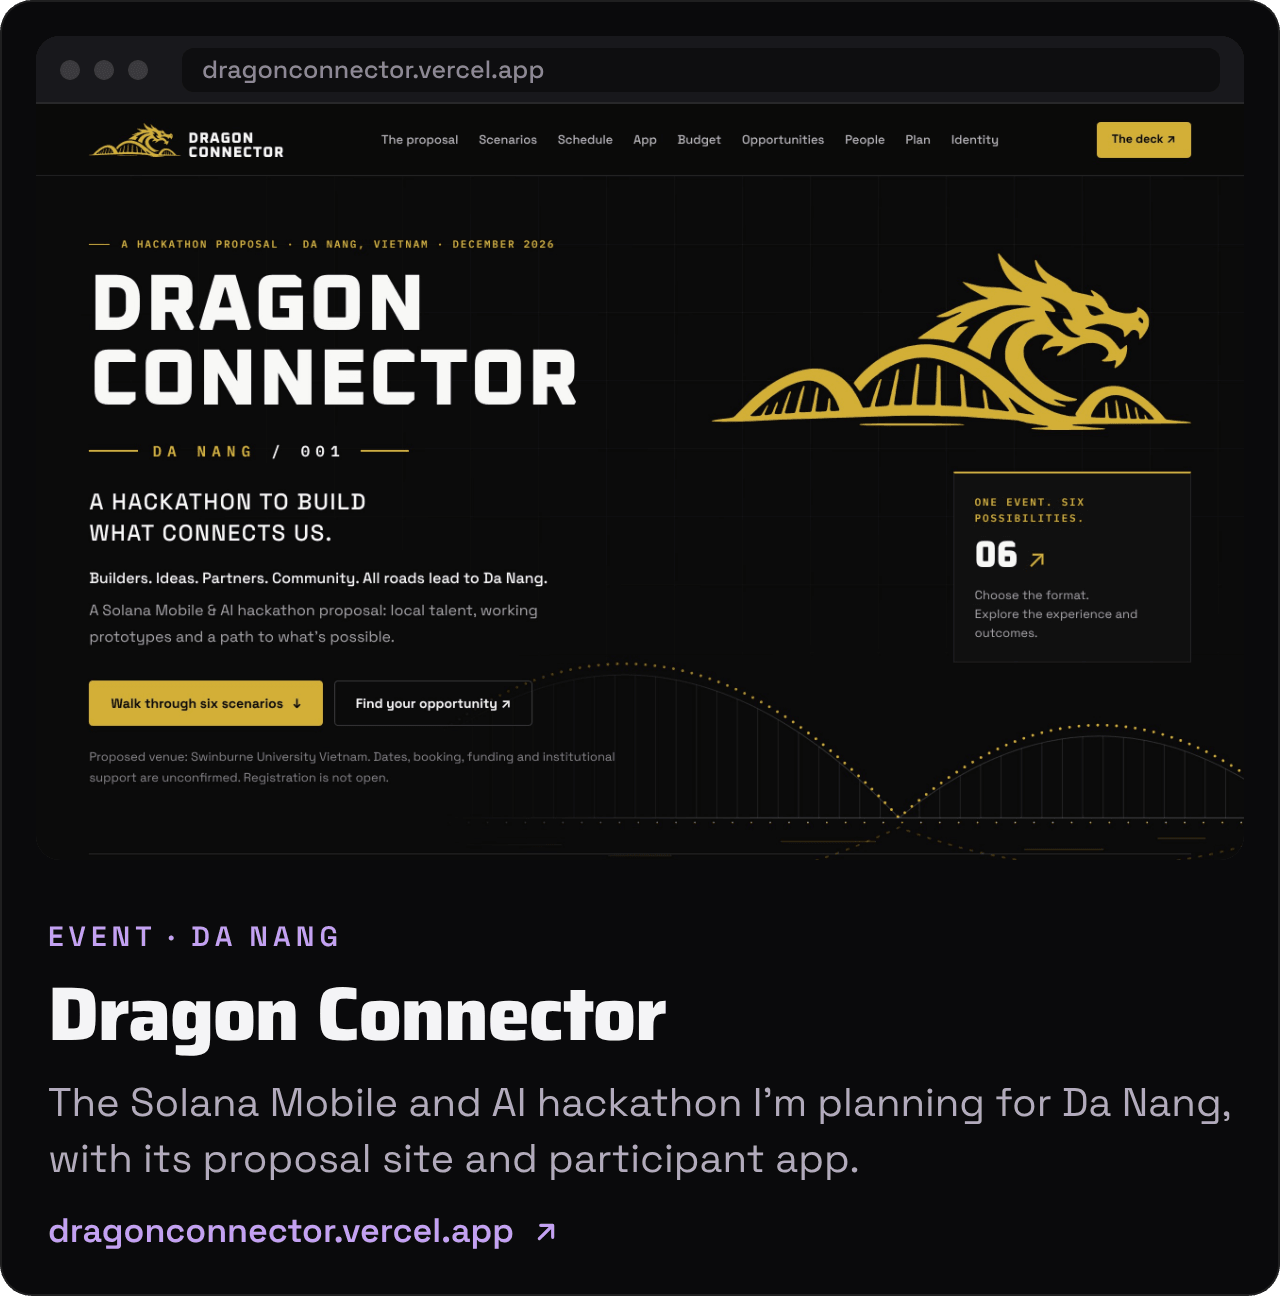
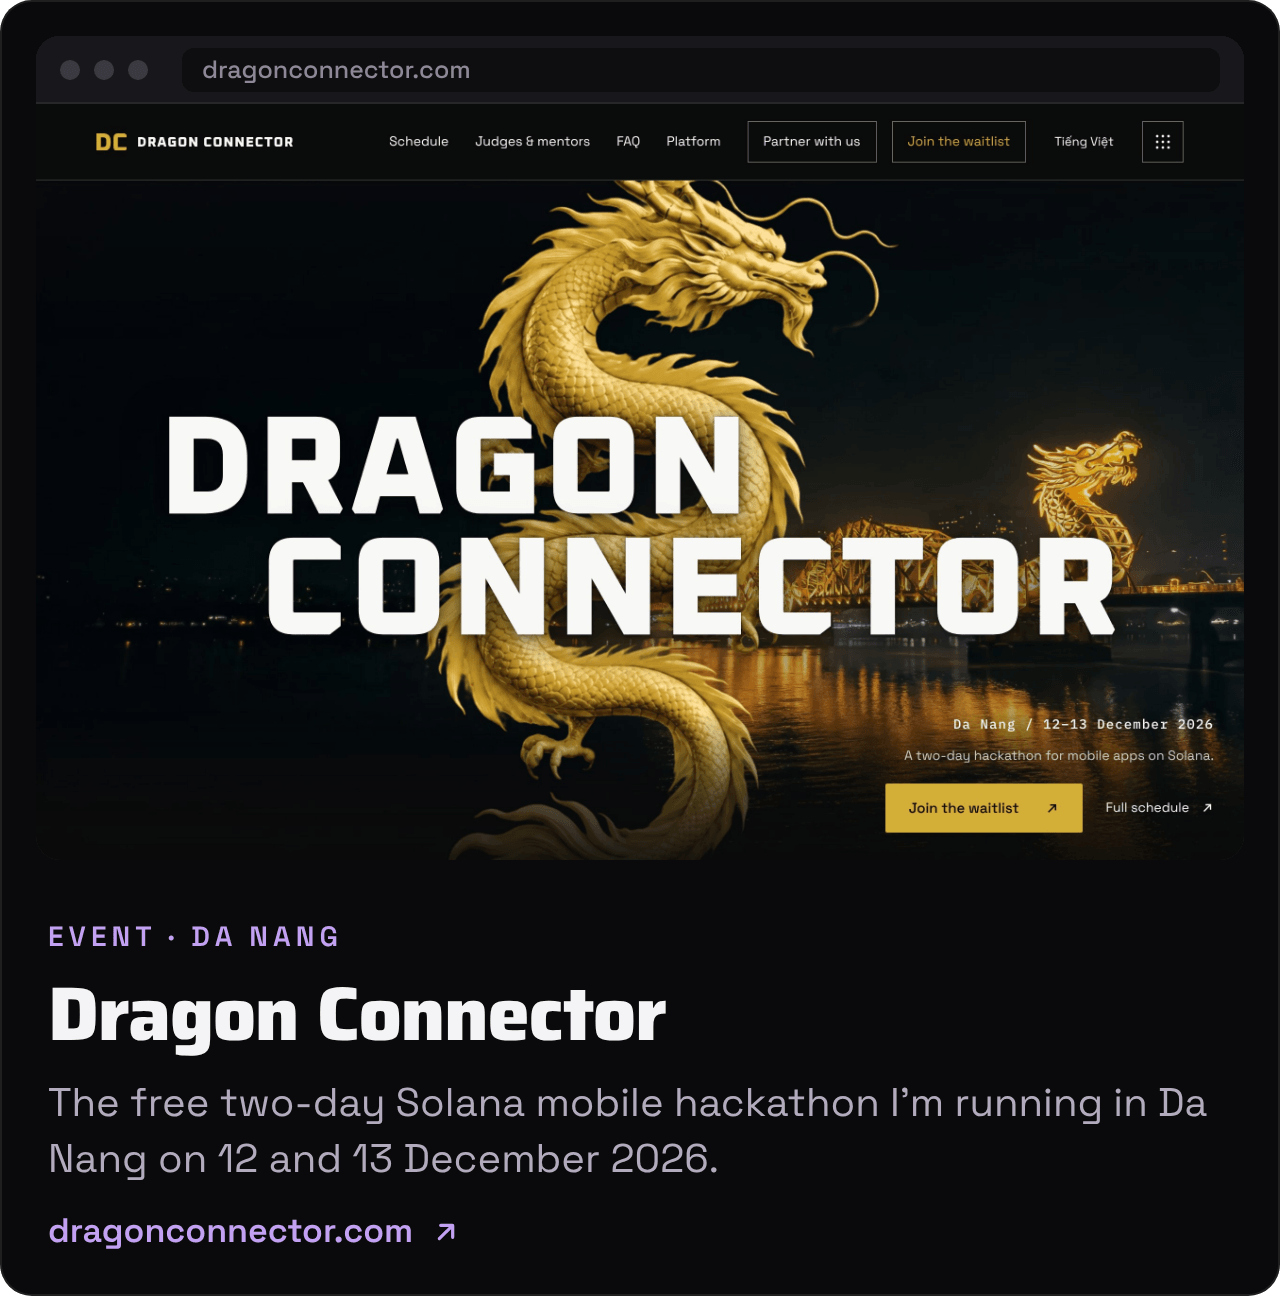
docs: point Dragon Connector at dragonconnector.com, with its dates
- The tile links dragonconnector.com, where dragonconnector.vercel.app now
  redirects, and says what the event is now: a free two-day Solana mobile
  hackathon in Da Nang on 12 and 13 December 2026, no longer a plan.
- Its screenshot is retaken from the live event site; it showed the old
  proposal page.
- Only the Dragon Connector tile is re-rendered. Every other image keeps
  its bytes, so their README cache keys are unchanged.

Claude-Session: https://claude.ai/code/session_01TZhsuWjATuivuiFYJGpbY5

diff --git a/README.md b/README.md
@@ -26,7 +26,7 @@
 
 <p align="center">
   <a href="https://github.com/operatoruplift/cold"><img src="https://raw.githubusercontent.com/operatoruplift/operatoruplift/main/img/06-tile-cold.png?v=a8a8ada18e" alt="COLD. AI outbound · open source. Break the ice: cold DMs, emails, calls and prospect research, with every touch kept in Twenty CRM." width="49%"></a>
-  <a href="https://dragonconnector.vercel.app"><img src="https://raw.githubusercontent.com/operatoruplift/operatoruplift/main/img/07-tile-dragon-connector.png?v=2bbaf0df73" alt="Dragon Connector. Event · Da Nang. The Solana Mobile and AI hackathon I’m planning for Da Nang, with its proposal site and participant app." width="49%"></a>
+  <a href="https://dragonconnector.com"><img src="https://raw.githubusercontent.com/operatoruplift/operatoruplift/main/img/07-tile-dragon-connector.png?v=59d1ceea1a" alt="Dragon Connector. Event · Da Nang. The free two-day Solana mobile hackathon I’m running in Da Nang on 12 and 13 December 2026." width="49%"></a>
 </p>
 
 <p align="center">
